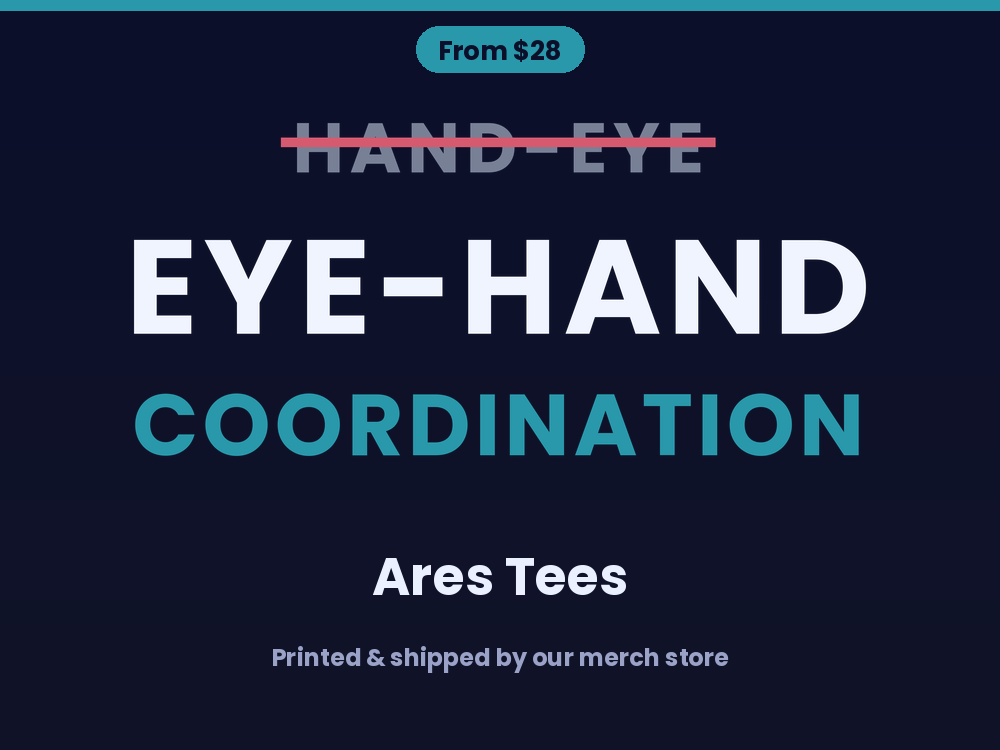
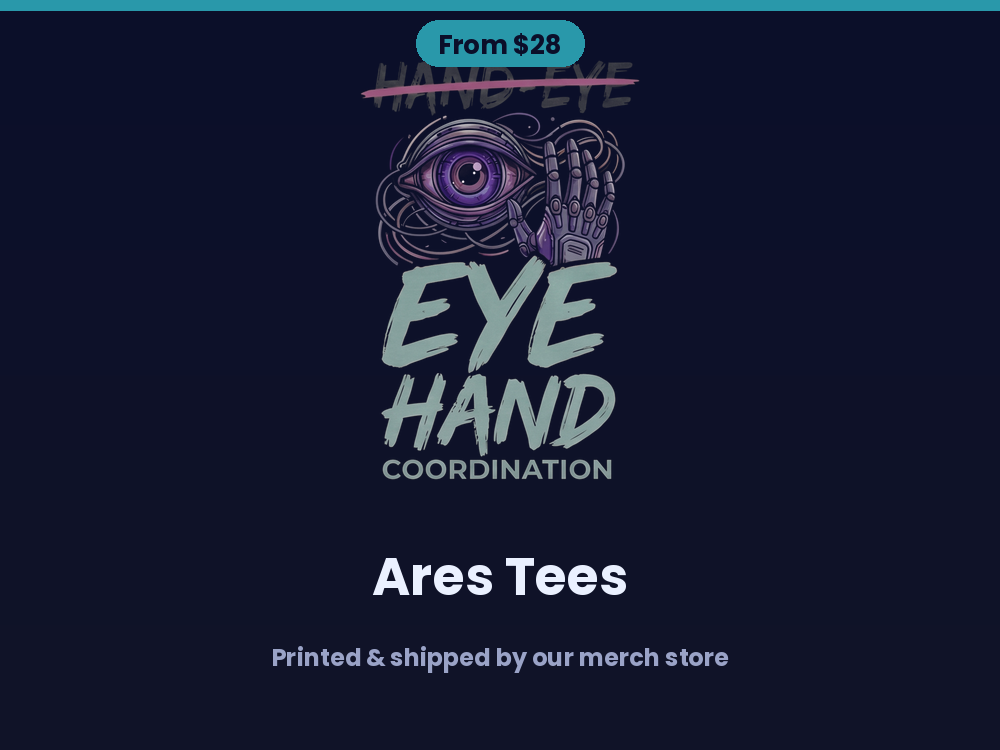
feat(certification): add Dr. Theresa Zaker testimonial & social proof section to A.R.E.S. Certification page

Changed region(s): [[0.124, 0.0, 0.868, 0.644]]

diff --git a/src/pages/CertificationPage.tsx b/src/pages/CertificationPage.tsx
@@ -1,6 +1,6 @@
 import { Link } from 'react-router-dom';
 import { motion } from 'framer-motion';
-import { ArrowLeft, Award, ShieldCheck, Target, PlayCircle } from 'lucide-react';
+import { ArrowLeft, Award, ShieldCheck, Target, PlayCircle, Quote } from 'lucide-react';
 import { Button } from '../components/ui/Button';
 import { SEO } from '../components/SEO';
 
@@ -143,6 +143,42 @@ export function CertificationPage() {
             </div>
           </div>
 
+          {/* Practitioner Testimonial / Social Proof */}
+          <div className="my-16 bg-gradient-to-br from-[var(--color-ares-charcoal)]/90 via-[#0A0B14] to-black/80 backdrop-blur-md border border-[var(--color-ares-teal)]/40 rounded-3xl p-8 md:p-12 shadow-[0_0_40px_rgba(41,182,246,0.15)] relative overflow-hidden">
+            <div className="absolute -top-12 -right-12 w-64 h-64 bg-[var(--color-ares-teal)]/10 rounded-full blur-3xl pointer-events-none" />
+            <div className="absolute -bottom-12 -left-12 w-64 h-64 bg-[var(--color-ares-purple)]/10 rounded-full blur-3xl pointer-events-none" />
+            
+            <div className="relative z-10">
+              <div className="flex items-center gap-3 mb-6">
+                <div className="p-3 rounded-2xl bg-[var(--color-ares-teal)]/10 border border-[var(--color-ares-teal)]/30 text-[var(--color-ares-teal)]">
+                  <Quote className="w-6 h-6" />
+                </div>
+                <div>
+                  <span className="text-[10px] font-mono font-bold tracking-[0.2em] uppercase text-[var(--color-ares-teal)] block">
+                    PRACTITIONER ENDORSEMENT & SOCIAL PROOF
+                  </span>
+                  <h3 className="text-xl font-bold text-white uppercase">Clinical Excellence in Practice</h3>
+                </div>
+              </div>
+
+              <blockquote className="text-lg md:text-xl text-white/90 font-medium leading-relaxed italic mb-8 border-l-2 border-[var(--color-ares-teal)] pl-6">
+                "The ARES certification process was a valuable and well-structured experience from start to finish. Over the course of the three-day program, I gained a thorough understanding of the ARES philosophy, learned how to perform and implement the various training drills, and developed the skills needed to help athletes improve their visual performance and reach their full potential. The hands-on instruction, knowledgeable staff, and supportive learning environment made the experience both engaging and practical. I truly appreciated the professionalism throughout the certification journey and would highly recommend the ARES certification to any healthcare or performance professional looking to integrate sports vision training into their practice."
+              </blockquote>
+
+              <div className="flex items-center gap-4 pt-4 border-t border-white/10">
+                <div className="w-12 h-12 rounded-full bg-gradient-to-br from-[var(--color-ares-teal)] to-[var(--color-ares-purple)] flex items-center justify-center font-bold text-white text-lg shadow-md">
+                  TZ
+                </div>
+                <div>
+                  <div className="text-base font-bold text-white">Dr. Theresa Zaker</div>
+                  <div className="text-xs font-mono text-[var(--color-ares-teal)] uppercase tracking-wider">
+                    Zaker Family Optometry · A.R.E.S. Certified Practitioner
+                  </div>
+                </div>
+              </div>
+            </div>
+          </div>
+
           {/* Certificate Template & Registry Section */}
           <div className="border-t border-[var(--color-ares-border)] pt-16 mt-16 mb-16">
             <div className="grid grid-cols-1 lg:grid-cols-2 gap-12 items-center mb-16">
@@ -167,6 +203,7 @@ export function CertificationPage() {
             <h3 className="text-center text-xs font-bold tracking-[0.3em] uppercase text-[var(--color-ares-teal)] mb-8">[Registered Certified Clinicians & Coaches]</h3>
             <div className="grid grid-cols-2 sm:grid-cols-3 lg:grid-cols-4 gap-6">
               {[
+                { name: "Dr. Theresa Zaker", title: "Zaker Family Optometry", src: "/A.R.E.S. Certification Badge.png" },
                 { name: "Blair Julian", title: "CPVT Level 1", src: "/A.R.E.S Certification - CVPT - Blair Julian.png" },
                 { name: "Cameron Gray", title: "CPVT Provider", src: "/A.R.E.S. Certification - Cameron Gray - CPVT.png" },
                 { name: "Christopher Wheeler", title: "CPVT Provider", src: "/A.R.E.S. Certification - Christopher Wheeler.png" },